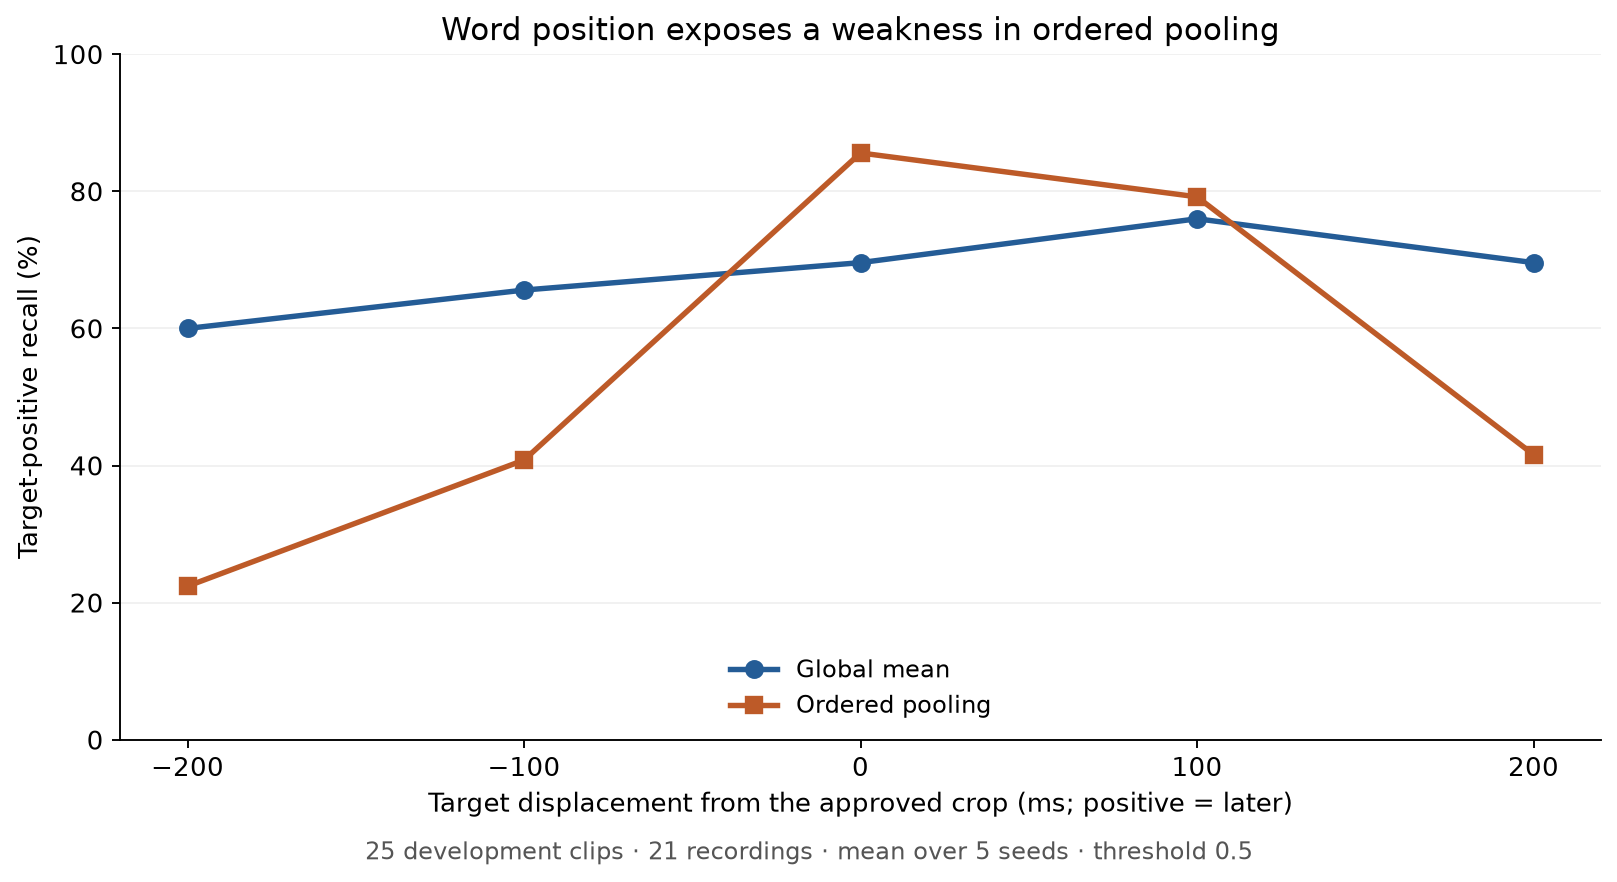
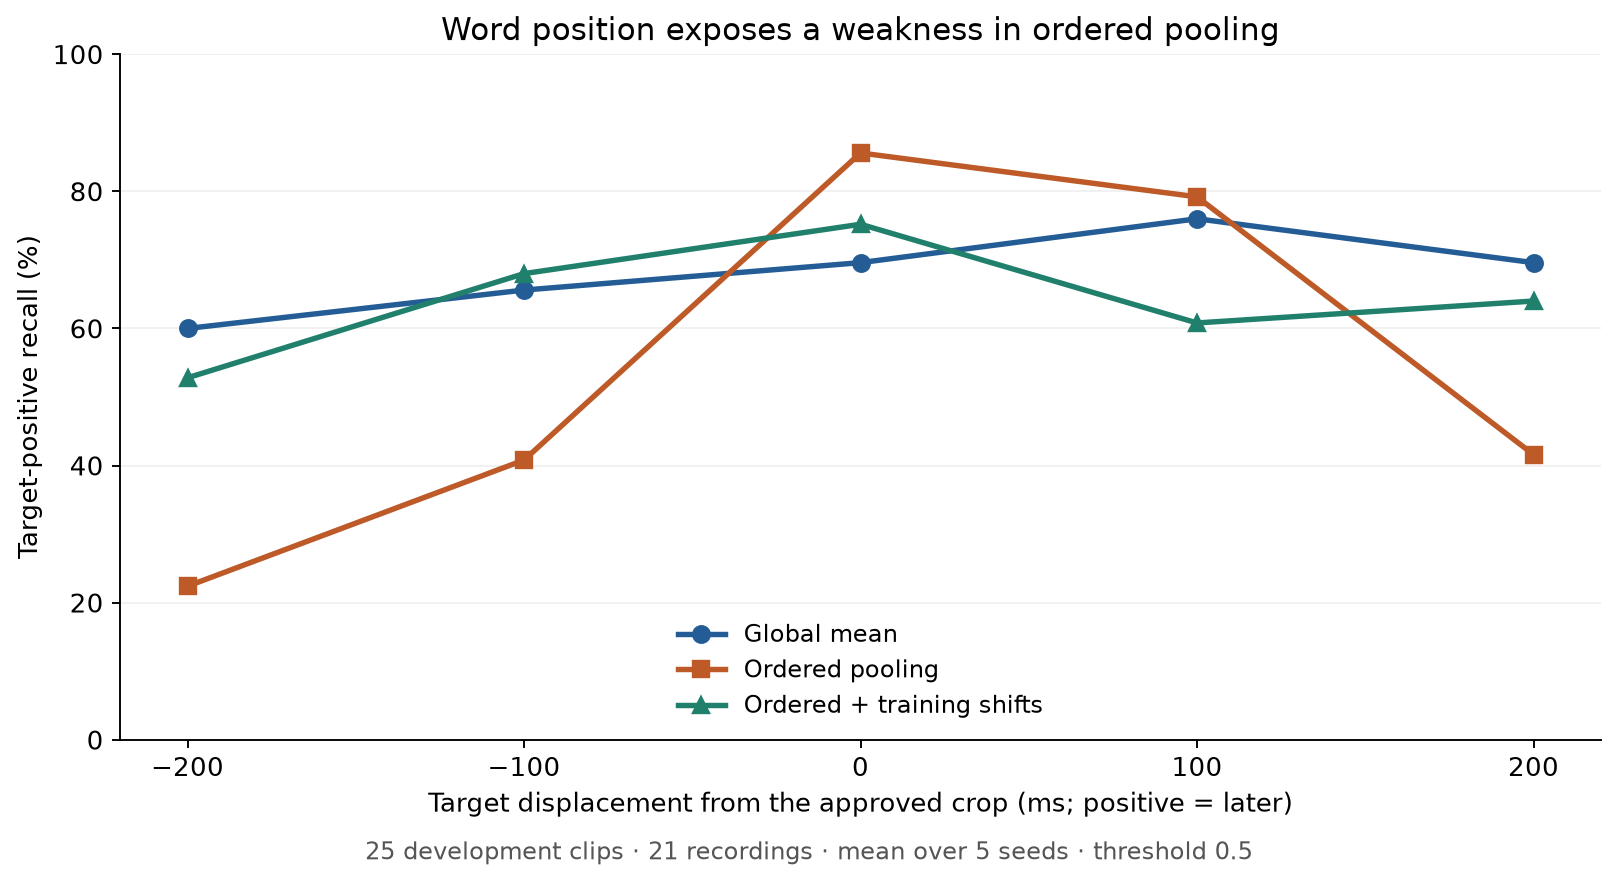
Train with shifted examples and record the trade-off

diff --git a/scripts/render_figures.py b/scripts/render_figures.py
@@ -13,7 +13,8 @@ plt.rcParams.update({'font.family': 'DejaVu Sans', 'font.size': 11, 'axes.spines
 summary = compute()
 fig, ax = plt.subplots(figsize=(9.4, 4.8), layout='constrained')
 styles = [('global_mean', 'Global mean', '#245c96', 'o'),
-          ('ordered', 'Ordered pooling', '#bd5a28', 's')]
+          ('ordered', 'Ordered pooling', '#bd5a28', 's'),
+          ('ordered_jitter', 'Ordered + training shifts', '#20806c', '^')]
 xs = [-200, -100, 0, 100, 200]
 for key, label, color, marker in styles:
     values = [summary['position'][key][str(x)]['recall_mean'] * 100 for x in xs]

diff --git a/scripts/reproduce_results.py b/scripts/reproduce_results.py
@@ -56,9 +56,9 @@ def classification_summary(name, models, expected_n):
 
 def compute():
     rows = load('position_counts.csv')
-    models = ['global_mean', 'ordered']
+    models = ['global_mean', 'ordered', 'ordered_jitter']
     offsets = [-200, -100, 0, 100, 200]
-    assert len(rows) == 50
+    assert len(rows) == 75
     curves = {}
     for model in models:
         curve = {}

diff --git a/docs/temporal-structure.md b/docs/temporal-structure.md
@@ -29,17 +29,26 @@ The comparison used the same 25 eligible positive clips from 21 recordings at al
 |---|---:|---:|---:|
 | Global averaging | 60.0% | 69.6% | 69.6% |
 | Ordered pooling | 22.4% | 85.6% | 41.6% |
+| Ordered pooling with shifted training examples | 52.8% | 75.2% | 64.0% |
 
-Values are mean recall across five seeds on the same positives.
+Values are mean recall across five seeds on the same positives. The last row comes from the follow-up experiment described below.
 
 ![Recall at different target positions across five seeds.](../assets/position_sensitivity.png)
 
 The centered result had hidden a large weakness: the ordered model missed many targets when their position changed. This is consistent with dependence on absolute position, but it does not prove the model ignored the word's sound. Recropping also changes the surrounding audio, and the boundaries used to select valid crops are approximate.
 
-## Next: train with shifted examples
+## Training on eligible shifted crops
 
-Try sampling eligible shifted crops during training, keeping the target inside the window. Match the optimizer-update budget and keep checkpoint selection on the original validation set. Then check both centered and shifted inputs for regressions.
+I then sampled among eligible shifted views during training, including the original crop. The base-clip order and optimizer-update budget matched the ordered baseline. A separate seeded generator chose the view, so the experiment did not simply add more optimization steps.
 
-This positive-only diagnostic measures recall, not false alarms or full-song detection quality.
+Positive views had to keep the target within the crop with a margin. Negative views used target-exclusion checks. These checks depend on the annotations and cannot guarantee that every unannotated target is absent. The original ordered model's training-only normalization statistics were reused. Checkpoints still used the unchanged original validation set.
 
-The [position counts](../evidence/position_counts.csv), [centered-panel results](../evidence/centered_metrics.csv), and [protocol](../evidence/protocol.json) support these numbers. The [checking script](../scripts/reproduce_results.py) recomputes them; the [plotting script](../scripts/render_figures.py) redraws the figure. Neither reproduces private audio preparation or training.
+Earlier-position recall rose from 22.4% to 52.8%, while original-position recall fell from 85.6% to 75.2%. On the full centered development panel, mean accuracy fell from 79.7% to 77.1%. The augmentation helped some shifted positions and hurt others; it did not solve position sensitivity.
+
+## What I would test next
+
+A small temporal convolutional head over the frozen frame sequence is the next proposed experiment. It could learn local patterns using shared filters across positions. That is a hypothesis, not a result: it has not been run in the work presented here.
+
+The next comparison needs centered and shifted inputs, plus negative examples to measure false alarms. This positive-only position test measures recall, not full-song detection quality. Label coverage and the small, repeatedly used development sets remain limitations even if the architecture improves.
+
+The [position counts](../evidence/position_counts.csv), [centered-panel results](../evidence/centered_metrics.csv), and [protocol](../evidence/protocol.json) support the numbers above. The [checking script](../scripts/reproduce_results.py) recomputes them, and the [plotting script](../scripts/render_figures.py) redraws the figure. Neither reproduces the private audio preparation or model training.

diff --git a/README.md b/README.md
@@ -45,23 +45,25 @@ I shifted the crops to put words earlier or later. On the same **25 eligible pos
 
 ![Recall at different word positions, averaged over five seeds.](assets/position_sensitivity.png)
 
+Training with eligible shifted crops raised recall at that earlier position to **52.8%**, but lowered original-position recall to **75.2%**. It helped some positions and hurt others; it didn't solve the problem.
+
 Recropping changes surrounding audio too, and the target boundaries are approximate. This positive-only diagnostic doesn't measure false alarms.
 
 [The ordered-pooling and position-sensitivity experiments in more detail](docs/temporal-structure.md).
 
 ## What I want to test next
 
-Train with eligible shifted crops and check whether that helps at different positions without losing the centered-clip performance. Keep the original validation set for checkpoint selection.
+I'd like to try a small temporal convolutional head over frozen frame features and see whether it handles changes in word position better. I haven't run that experiment yet. Label quality and coverage still need attention too.
 
 ## Check the numbers
 
-The aggregate files reproduce the figures and summaries, not training or audio labels. Audio, lyrics, clip identities, weights, and the development source remain private. [Settings and split counts](evidence/protocol.json).
+The aggregate CSVs reproduce these numbers and the plot, not training or audio labels. Audio, lyrics, clip identities, weights, and the private development source are excluded. [Settings and dataset counts](evidence/protocol.json).
 
 ```bash
 python3 scripts/reproduce_results.py --check
 ```
 
-To redraw the figures with Python 3.11+:
+To redraw the plot with Python 3.11+:
 
 ```bash
 python3 -m venv .venv
